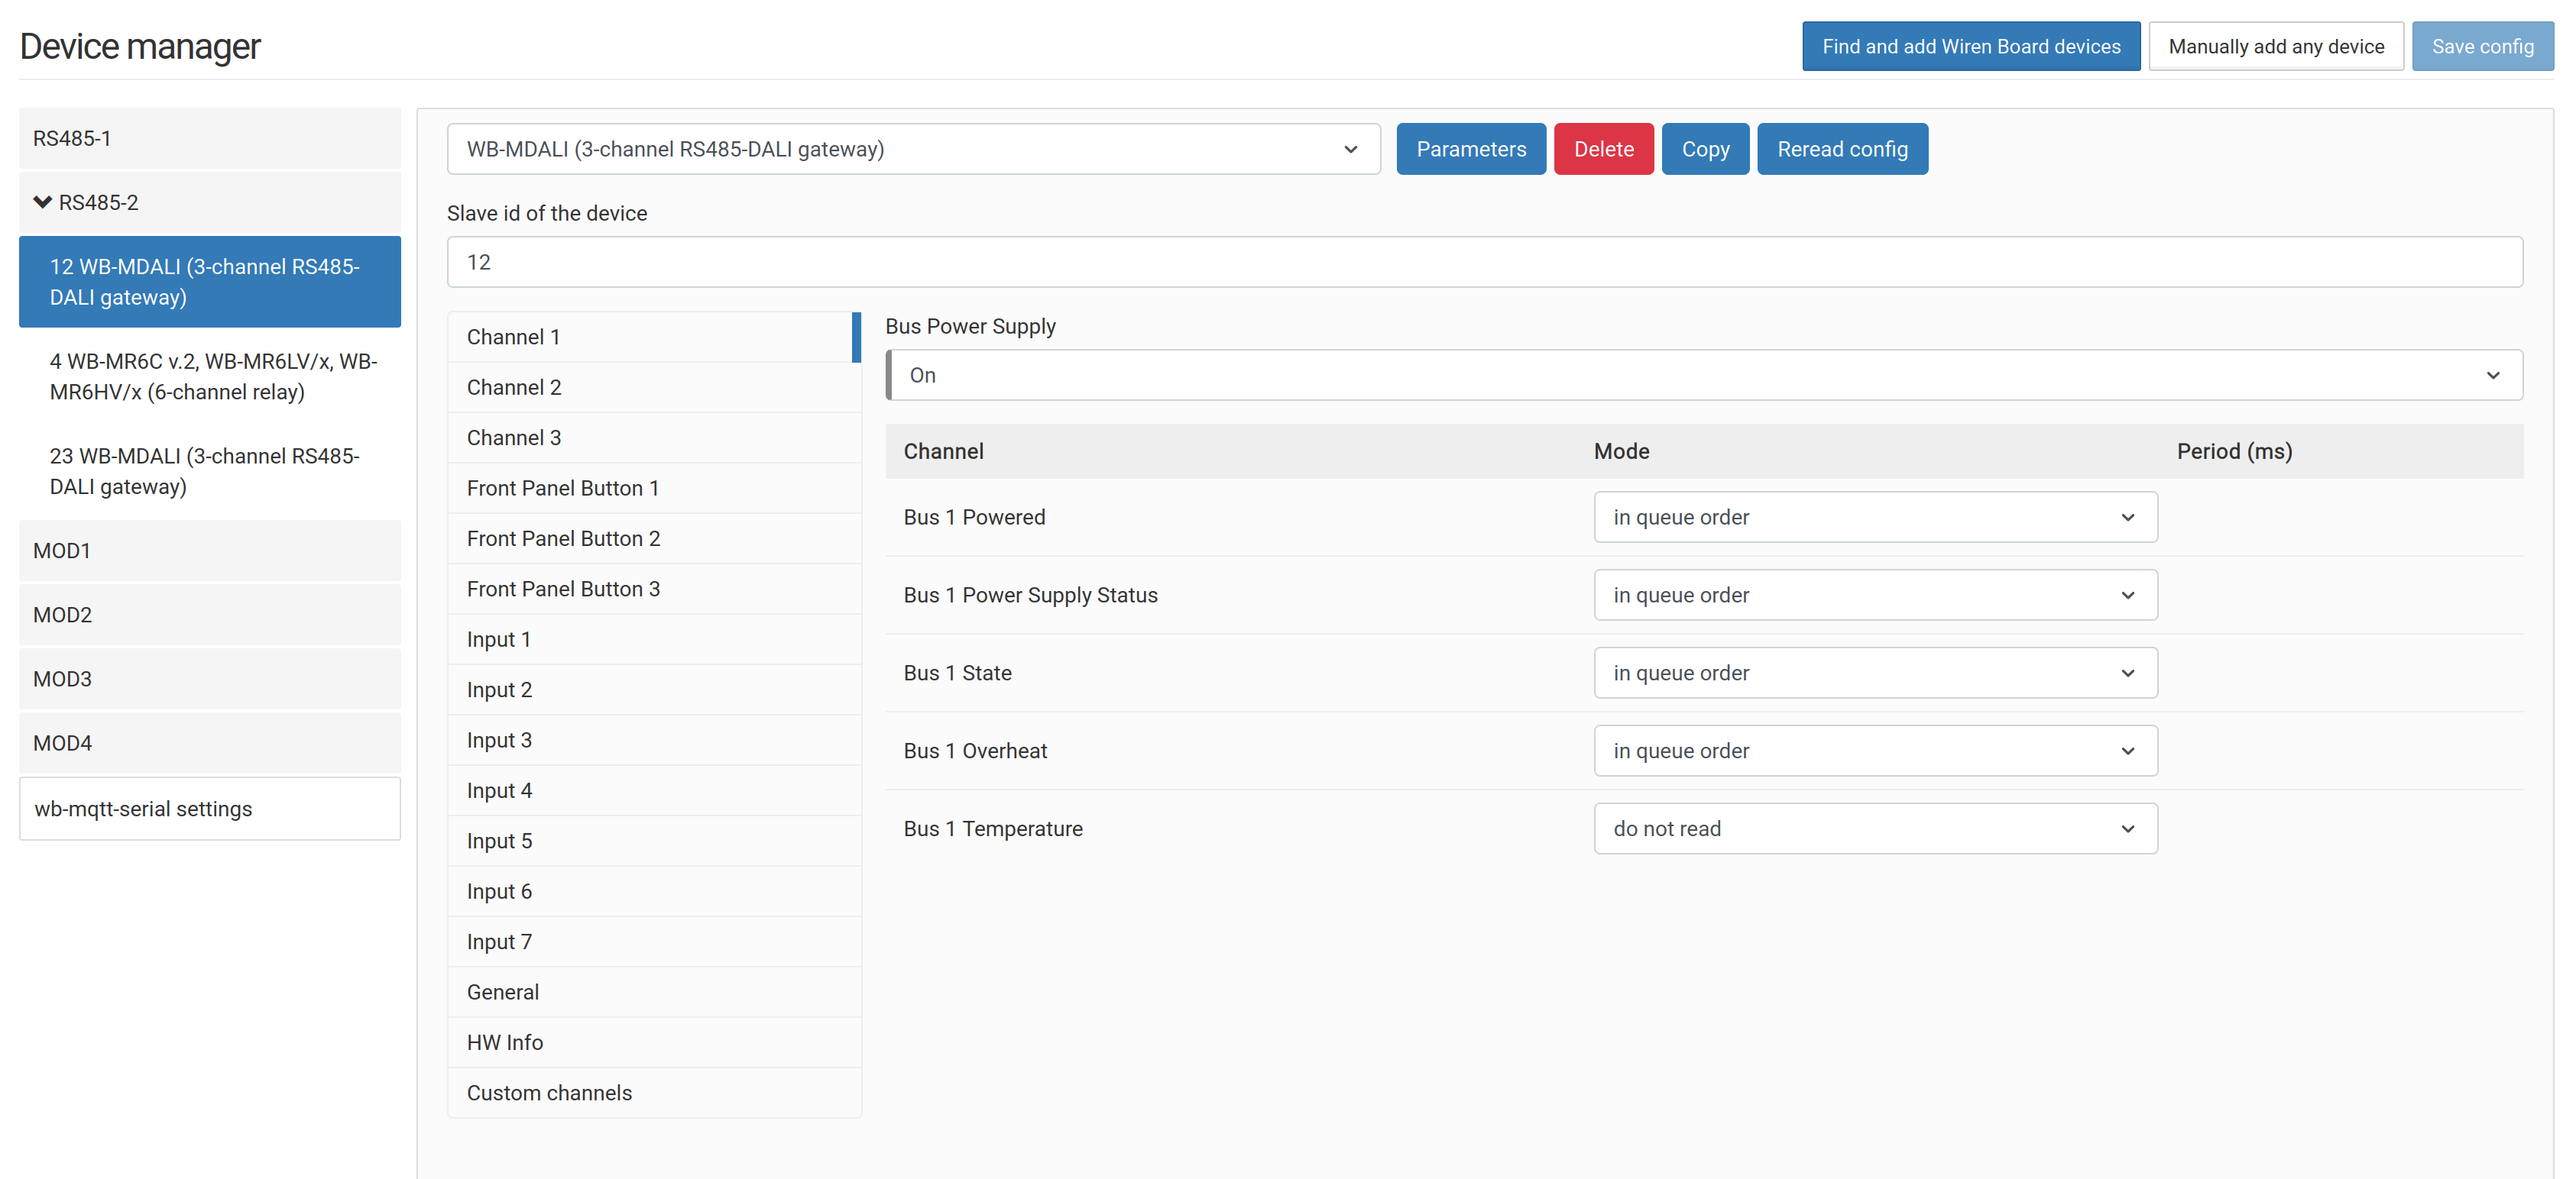
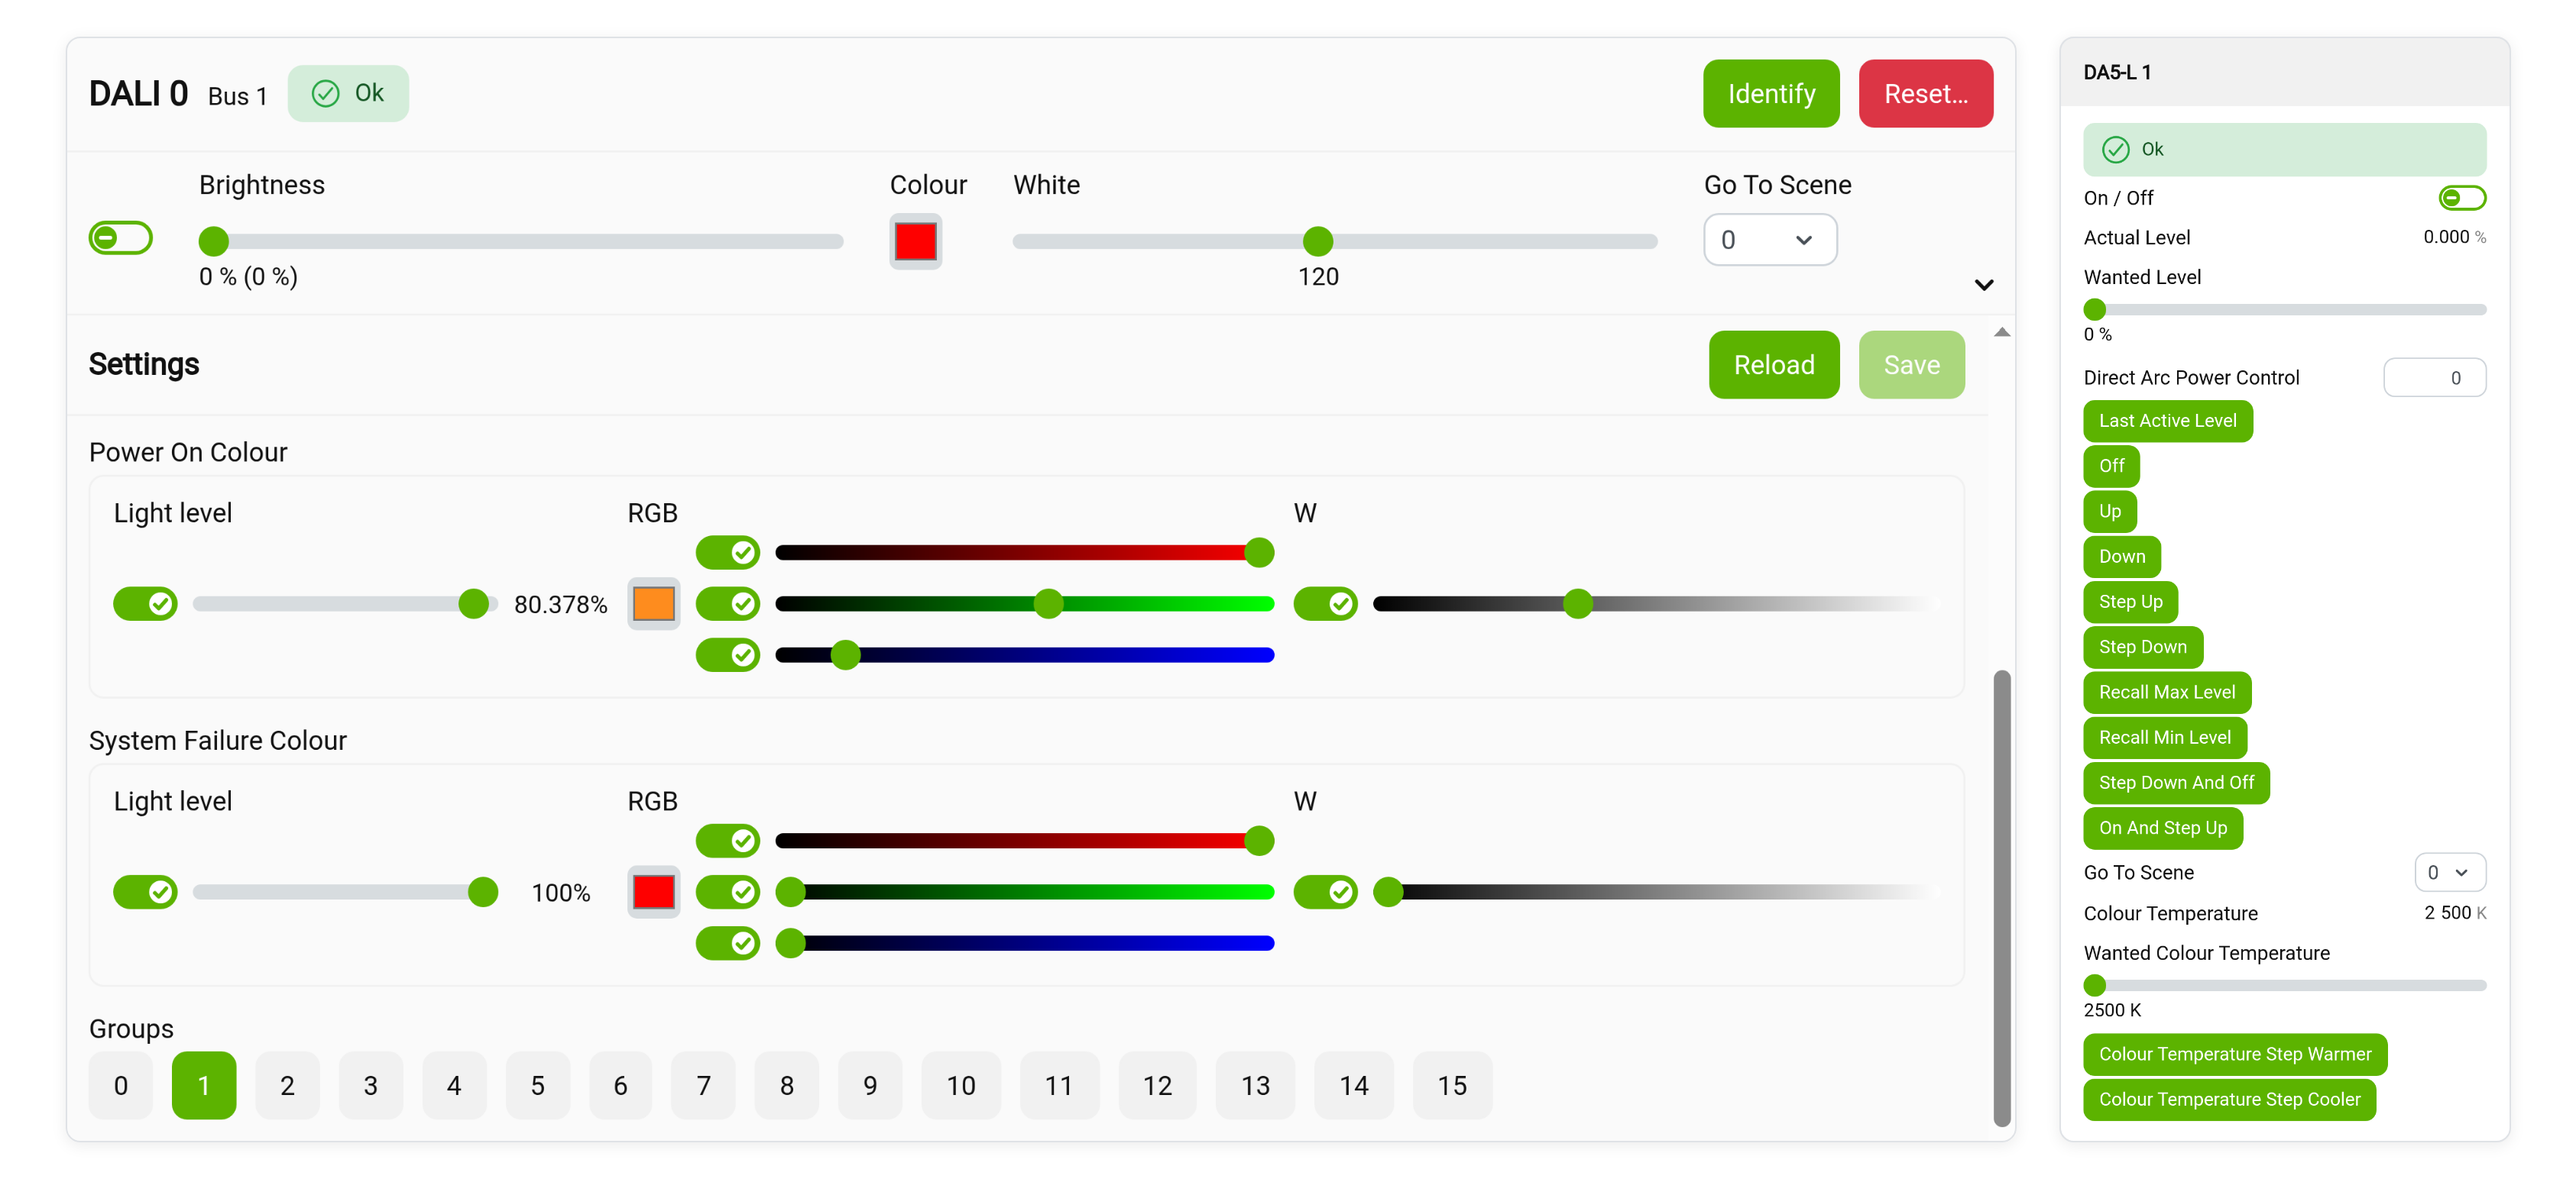
Дополнил «Настройку» в карточке WB-DALI3, новый скриншот
Раздел «Настройка» отставал от текущих wb-mqtt-dali и homeui.

RU и EN:
- «DALI2» → «DALI-2»;
- вместо «мышкой в веб-интерфейсе» — «в веб-интерфейсе контроллера»;
- новые пункты: сброс устройств к заводским настройкам; управление
  яркостью, цветовой температурой и цветом светильников, групп и всей
  шины; отправка на шину произвольных команд DALI;
- «статус и диагностика шины» → «статус устройств и трафик шины
  с расшифровкой команд»;
- абзац о том, что светильники, датчики, кнопки, группы и шина видны
  в веб-интерфейсе как отдельные устройства и годятся для сценариев.

Скриншот настроек (RU и EN, 3371×1544, как прежний): вместо страницы
WB-MDALI в wb-mqtt-serial — настройки цвета DT8-светильника (RGBW)
и карточка устройства с цветовой температурой на вкладке «Устройства».

diff --git a/content/ru/catalog/wb-mdali-3.md b/content/ru/catalog/wb-mdali-3.md
@@ -30,7 +30,7 @@ use_cases: []
 }
 - три независимые шины DALI;
 - защита от короткого замыкания, перегрева и перенапряжения;
-- поддержка DALI2-устройств (LED-драйверы, балласты, датчики, кнопки);
+- поддержка устройств DALI-2 (LED-драйверы, балласты, датчики, кнопки);
 - 7 дискретных входов для подключения кнопок;
 - распознавание 4 типов нажатий (короткое, длинное, двойное, короткое+длинное);
 - изолированный интерфейс RS-485;
@@ -76,13 +76,18 @@ use_cases: []
   width="500px"
   float="right"
 }
-На контроллере Wiren Board вы можете мышкой в веб-интерфейсе:
+В веб-интерфейсе контроллера Wiren Board вы можете:
 - включать внутренний источник питания для каждой шины DALI;
 - задавать поведение при нажатии кнопок и реакцию на срабатывание входов;
 - управлять DALI-устройствами: назначать адреса, группы, сцены;
+- сбрасывать устройства к заводским настройкам;
+- управлять яркостью, цветовой температурой и цветом отдельных светильников, групп и всей шины;
 - настраивать кривую управления яркостью (линейная / по стандарту DALI);
 - запускать идентификацию устройств (мигание светильником);
-- просматривать статус и диагностику шины.
+- отправлять на шину произвольные команды DALI;
+- просматривать статус устройств и трафик шины с расшифровкой команд.
+
+Каждый светильник, датчик и кнопка DALI, а также группы и вся шина отображаются в веб-интерфейсе контроллера как отдельные устройства. Их можно использовать в сценариях автоматизации или передать в систему верхнего уровня.
 ::
 :include{path="/catalog/includes/quality_control" withSeparator="true"}
 :include{path="/catalog/includes/certificates"}

diff --git a/content/en/catalog/wb-mdali-3.md b/content/en/catalog/wb-mdali-3.md
@@ -76,13 +76,18 @@ Enabling these extra capabilities is seamless for the user — if a device suppo
   width="500px"
   float="right"
 }
-On a Wiren Board controller, you can use the web interface to:
+In the Wiren Board controller web interface, you can:
 - enable the internal power supply for each DALI bus;
 - set button press behavior and input trigger reactions;
 - control DALI devices: assign addresses, groups, scenes;
+- reset devices to factory settings;
+- control the brightness, color temperature and color of individual luminaires, groups and the whole bus;
 - configure the brightness control curve (linear / DALI standard);
 - run device identification (light flashing);
-- view bus status and diagnostics.
+- send arbitrary DALI commands to the bus;
+- view device status and bus traffic with decoded commands.
+
+Each DALI luminaire, sensor and button, as well as groups and the whole bus, appears in the controller web interface as a separate device. They can be used in automation scenarios or passed to a higher-level system.
 ::
 :include{path="/catalog/includes/quality_control" withSeparator="true"}
 ::
